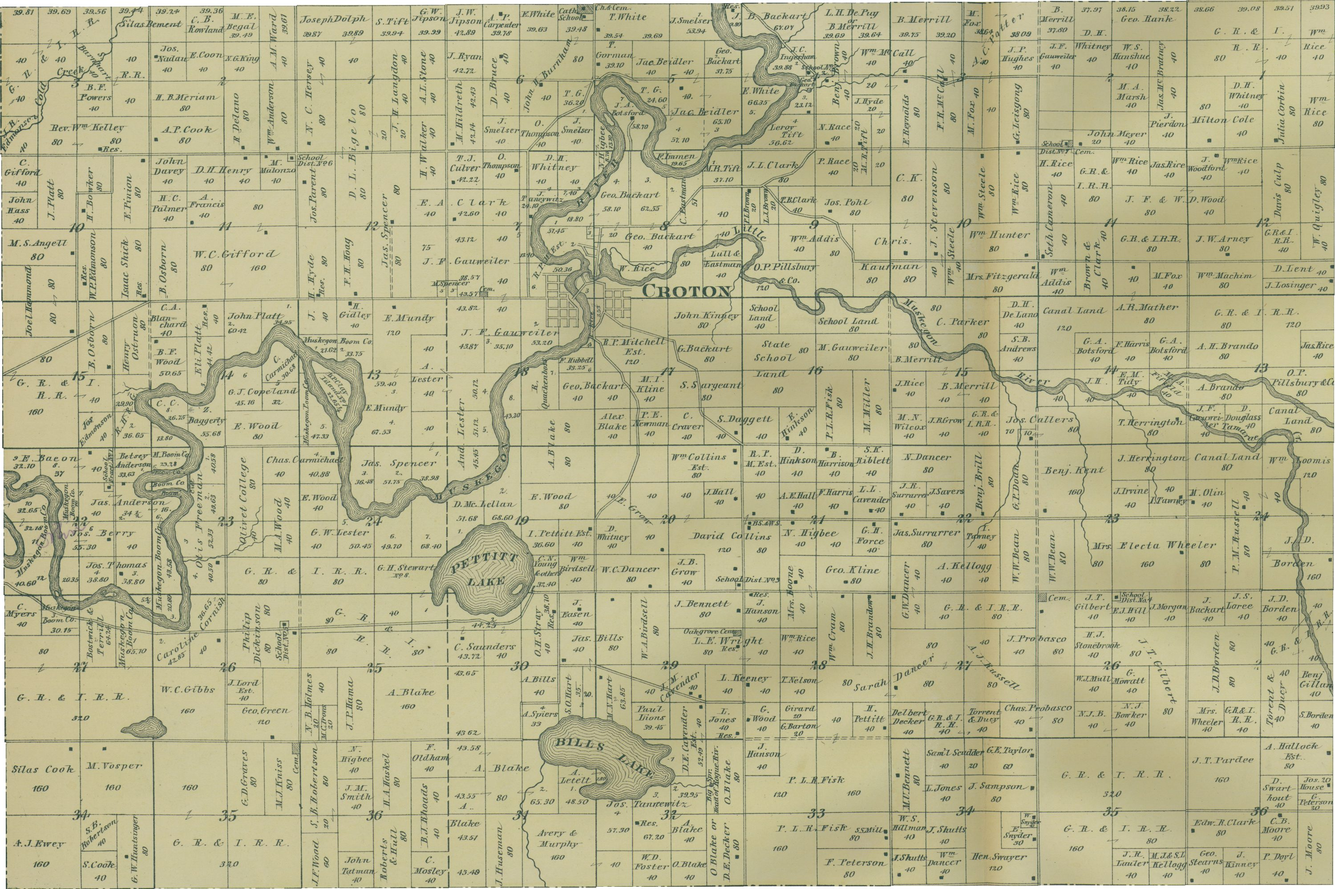
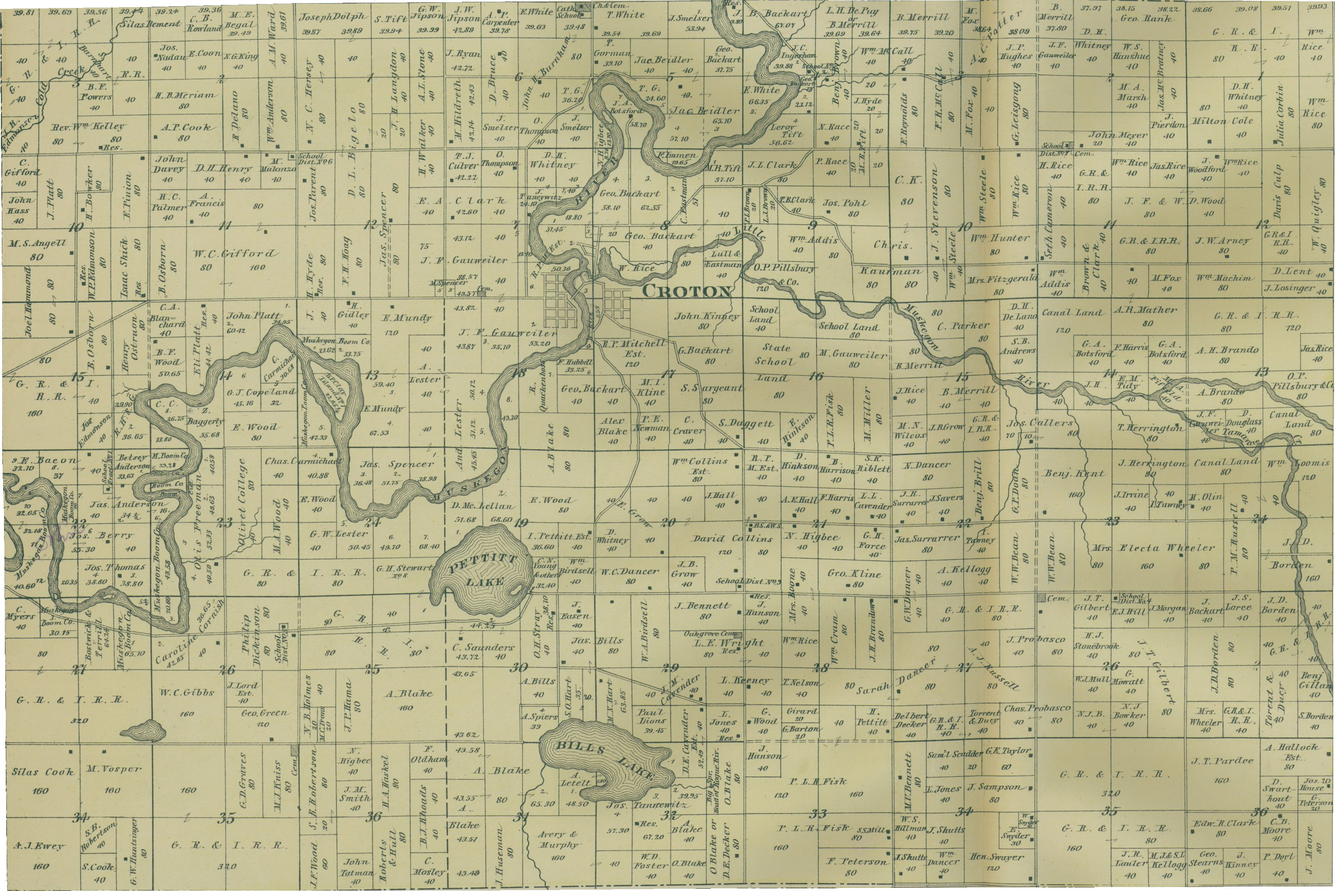
Re-warp Croton to true PLSS corners, add 1839 GLO plat (v2.63)
Two changes, both using the true-section-corner warp introduced in v2.62.

Croton township plat re-warped. v2.61 built its geographic lattice by
bilinear blend of the four outer corners; that idealised grid deviates from
the real survey by a median 27.8 m, max 72.7 m -- larger than the corner-snap
residual, so it was the dominant error. Every one of the 70 nodes now carries
its true BLM CadNSDI coordinate. Affects Sec 2 T12N R11W, so the 40 shifts
too. North bound moves 43.468118 -> 43.468256; same clicked pixel corners as
v2.61, no re-picking needed. 33 of 70 nodes hit the outlier filter (the plate
is dense with river, lakes and text, which confuses the ink probe more than
the Brooks sheet did); median snap 17.5 px.

New layer group "GLO Survey Plats" with T12N R11W (Croton), from the Michigan
DNR scan of the General Land Office original survey. Township lines run 1837,
subdivisions July 1838, certified 22 Feb 1839 -- 41 years before the atlas and
before the pine was cut, so it carries the Muskegon's original channel, the
marsh and the lakes as first surveyed. 49 nodes, 6x6 sections, median snap
2.8 px (~41 m at the 200 dpi render). 2600x2597, 440 KB.

Pixel corners for both were recovered from the prior session's transcript
rather than re-clicked.

Changed region(s): [[0.0, 0.0, 1.0, 1.0], [0.031, 0.8994, 0.124, 1.0]]

diff --git a/index.html b/index.html
@@ -767,7 +767,7 @@
 <div id="sidebar">
   <div class="sidebar-header">
     <h1>Newaygo<br>Field Map</h1>
-    <div class="subtitle">Newaygo County, Michigan · v2.62</div>
+    <div class="subtitle">Newaygo County, Michigan · v2.63</div>
   </div>
 
   <div class="section">
@@ -883,6 +883,27 @@
           T12N&nbsp;R13W + W&nbsp;3&nbsp;mi of T12N&nbsp;R12W, so the two abut on the same
           section line and together span R13W&nbsp;&rarr;&nbsp;R11W. Croton village inset is
           pre-Croton-Dam (1907), so the river predates the pond.
+        </div>
+      </div>
+      <div class="section-label species-toggle" id="glo-toggle" style="margin-top:4px">
+        GLO Survey Plats <span class="species-arrow closed">▾</span>
+      </div>
+      <div id="glo-body" style="display:none">
+        <label class="check-item">
+          <input type="checkbox" id="chk-glo-12n11w">
+          <span class="inat-dot" style="background:#8fa8c0"></span>
+          T12N R11W — Croton (1839)
+        </label>
+        <label class="check-item" style="padding-top:0">
+          <input type="range" id="glo-12n11w-op" min="10" max="100" value="85"
+                 style="flex:1;margin-left:20px" title="Opacity">
+        </label>
+        <div style="padding:2px 12px 9px;font-size:10px;color:#888;line-height:1.45">
+          General Land Office original survey. Township lines 1837, subdivisions
+          July&nbsp;1838, certified 22&nbsp;Feb&nbsp;1839 — 41&nbsp;years before the atlas
+          and before the pine was cut. Shows the Muskegon's original channel, marsh and
+          lakes; the right margin carries the surveyor's meander traverse in chains
+          and links.
         </div>
       </div>
       <div class="section-label species-toggle" id="ag-toggle" style="margin-top:4px">
@@ -2183,12 +2204,12 @@
   // R13W + W 3 mi of R12W. They meet on the R12W 3-mile section line
   // (-85.742840), so the pair tiles R13W -> R11W with no gap.
   //
-  // Croton (v2.61) used a 10x7 lattice whose geographic nodes were a bilinear
-  // blend of the four outer corners. Sherman/Brooks (v2.62) instead gives every
-  // node its true BLM section-corner coordinate; the idealised grid was off by
-  // a median 37 m (max 96 m), which is larger than the corner-snap residual,
-  // so it was the dominant error. Croton is worth re-warping the same way.
-  const ATLAS_TWP_BOUNDS    = [[43.380752, -85.742840], [43.468118, -85.562353]];
+  // Every node carries its true BLM section-corner coordinate rather than a
+  // bilinear blend of the four outer corners; the idealised grid was off by a
+  // median 37 m on Brooks and 28 m on Croton, larger than the corner-snap
+  // residual, so it was the dominant error rather than a refinement. Croton was
+  // re-warped this way in v2.63 (its north bound moved 43.468118 -> 43.468256).
+  const ATLAS_TWP_BOUNDS    = [[43.380752, -85.742840], [43.468256, -85.562353]];
   const ATLAS_VIL_BOUNDS    = [[43.435945, -85.670081], [43.445605, -85.656245]];
   const ATLAS_BROOKS_BOUNDS = [[43.379875, -85.920039], [43.467388, -85.741895]];
 
@@ -2198,6 +2219,15 @@
     { opacity: 0.9, attribution: '1880 Newaygo County atlas' });
   const atlasBrooksLayer = L.imageOverlay('atlas1880_brooks_twp.jpg', ATLAS_BROOKS_BOUNDS,
     { opacity: 0.8, attribution: '1880 Newaygo County atlas' });
+
+  // ── GLO original survey plat (1838-39) ───────────────────
+  // Michigan DNR scan of the General Land Office plat, T12N R11W: township
+  // lines run 1837, subdivisions July 1838, certified 22 Feb 1839 -- 41 years
+  // before the atlas, and before the pine was cut. Warped by the same
+  // true-PLSS-corner method (49 nodes, 6x6 sections).
+  const GLO_12N11W_BOUNDS = [[43.380778, -85.682958], [43.468256, -85.562353]];
+  const glo12n11wLayer = L.imageOverlay('glo_12n11w.jpg', GLO_12N11W_BOUNDS,
+    { opacity: 0.85, attribution: 'GLO original survey plat, 1839 (Michigan DNR)' });
 
   document.getElementById('atlas1880-toggle').addEventListener('click', () => {
     const body  = document.getElementById('atlas1880-body');
@@ -2224,6 +2254,20 @@
   });
   document.getElementById('atlas-brooks-op').addEventListener('input', e => {
     atlasBrooksLayer.setOpacity(e.target.value / 100);
+  });
+
+  document.getElementById('glo-toggle').addEventListener('click', () => {
+    const body  = document.getElementById('glo-body');
+    const arrow = document.querySelector('#glo-toggle .species-arrow');
+    const open  = body.style.display !== 'none';
+    body.style.display = open ? 'none' : '';
+    arrow.classList.toggle('closed', open);
+  });
+  document.getElementById('chk-glo-12n11w').addEventListener('change', e => {
+    e.target.checked ? glo12n11wLayer.addTo(map) : map.removeLayer(glo12n11wLayer);
+  });
+  document.getElementById('glo-12n11w-op').addEventListener('input', e => {
+    glo12n11wLayer.setOpacity(e.target.value / 100);
   });
 
   document.getElementById('other-counties-toggle').addEventListener('click', () => {
